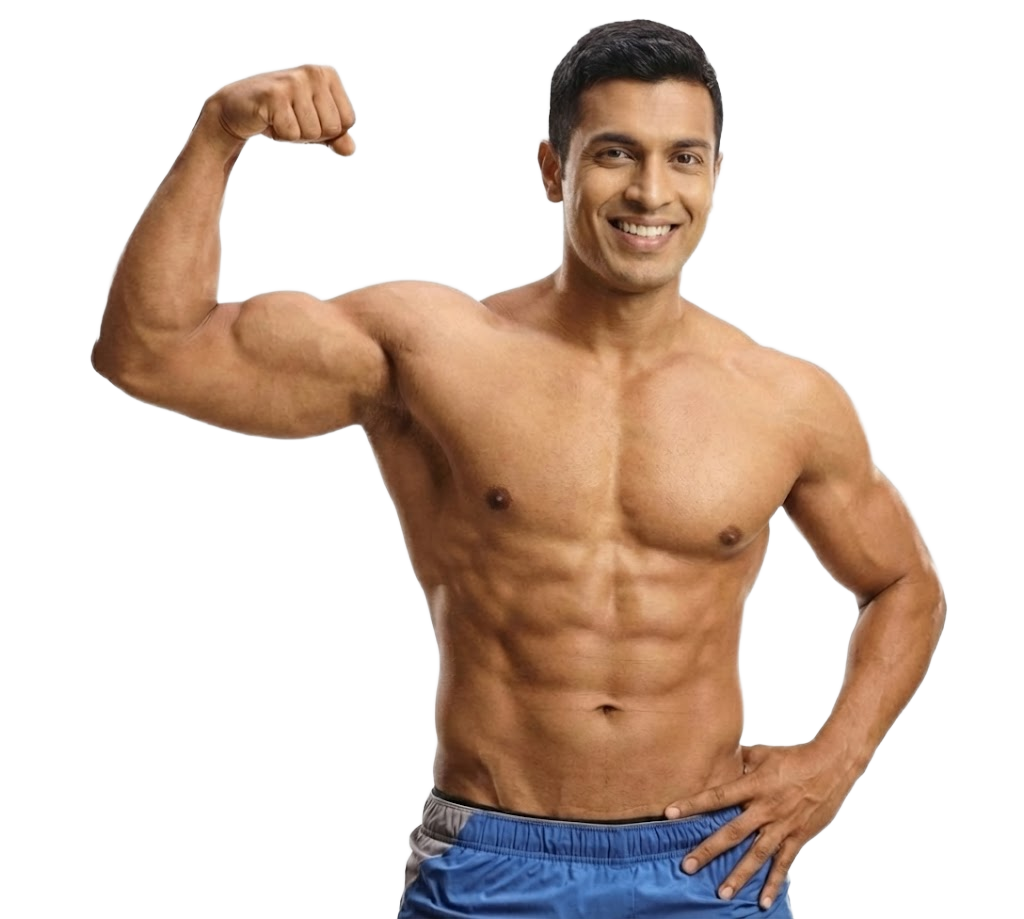
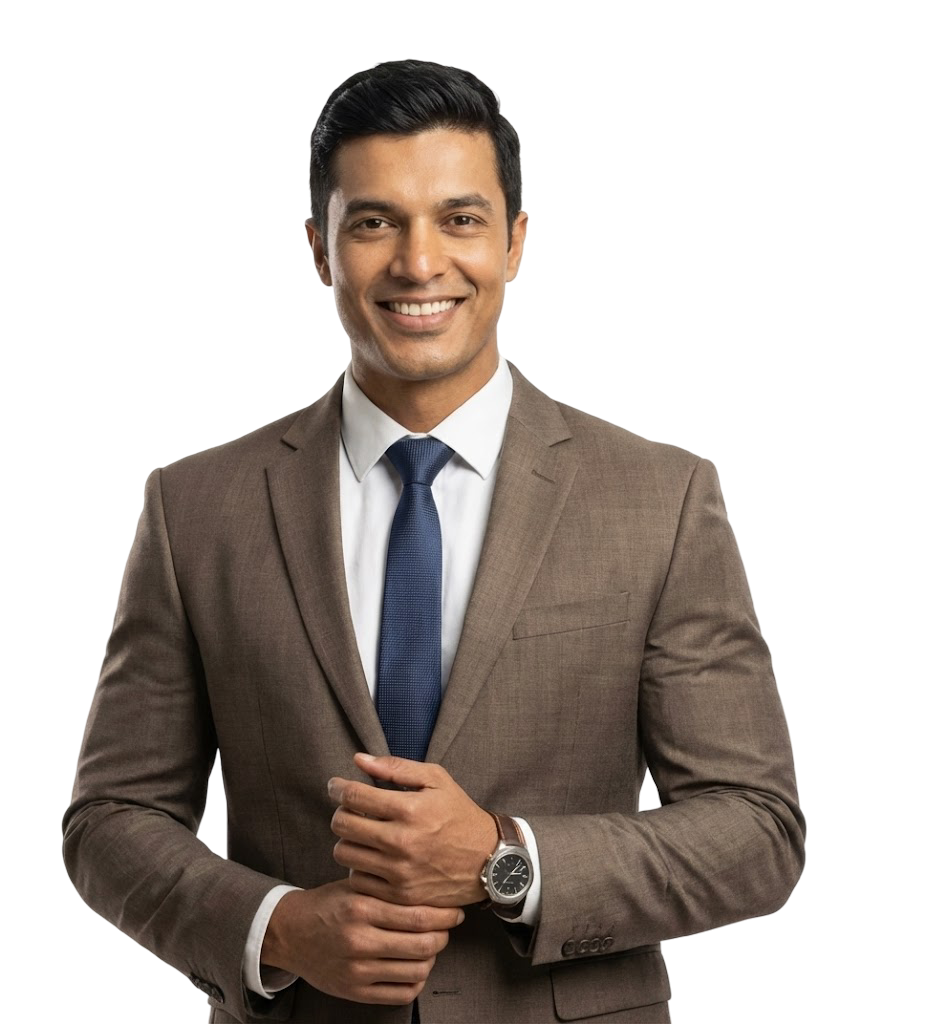
Update wellness website components and assets

diff --git a/frontend/src/components/FeaturedOn.jsx b/frontend/src/components/FeaturedOn.jsx
@@ -7,6 +7,16 @@ const FeaturedOn = () => {
 
   const mediaLogos = [
     {
+      name: 'Entrepreneur',
+      logo: mediaLogoPath('enterpenuer.jpg'),
+      alt: 'Entrepreneur Magazine'
+    },
+    {
+      name: 'United News of India',
+      logo: mediaLogoPath('uni1.jpg'),
+      alt: 'United News of India'
+    },
+    {
       name: 'Featured 1',
       logo: mediaLogoPath('test/p6nzkkfsqo-fhfvjhuhal-6929ca03b6f38.webp'),
       alt: 'Featured logo 1'
@@ -69,6 +79,24 @@ const FeaturedOn = () => {
   ];
 
   const mediaSpotlights = [
+    {
+      name: 'Entrepreneur',
+      headline: 'Health and Wellness Influencer of the Year',
+      description: 'Recognized for his transformative "Last Diet Method™" and empowering fitness coaches globally to build successful businesses.',
+      date: '2022',
+      url: 'https://www.entrepreneur.com/',
+      publisher: 'Entrepreneur',
+      image: mediaLogoPath('enterpenuer.jpg')
+    },
+    {
+      name: 'United News of India',
+      headline: 'Top 10 Entrepreneurs Set to Redefine Industries in 2026',
+      description: 'Featured as a reformist in the fitness industry, advocating for evidence-based health practices and a holistic approach to wellness.',
+      date: 'January 2026',
+      url: 'http://www.uniindia.com/',
+      publisher: 'United News of India',
+      image: mediaLogoPath('uni1.jpg')
+    },
     {
       name: 'Cosmopolitan',
       headline: 'Watch Out: These Food Triggers Can Make You Overeat',

diff --git a/frontend/src/components/CardsSection.jsx b/frontend/src/components/CardsSection.jsx
@@ -57,7 +57,7 @@ const CardsSection = () => {
                 <TrendingUp size={28} strokeWidth={2.5} />
               </div>
               <div className="badge-content">
-                <span className="badge-title">5,000+ Success Stories</span>
+                <span className="badge-title">1,287+ Success Stories</span>
                 <span className="badge-subtitle">Join thousands of transformed men</span>
               </div>
             </div>
@@ -66,7 +66,7 @@ const CardsSection = () => {
           {/* Yellow Card - Social Proof */}
           <div className="card card-yellow card-yellow-small">
             <div className="stat-header">
-              <h2 className="big-stat">5,000+</h2>
+              <h2 className="big-stat">1,287+</h2>
               <span className="stat-badge">And Growing</span>
             </div>
             <p className="stat-text">Men transformed their sexual health naturally</p>

diff --git a/frontend/src/components/TransformationCollage.css b/frontend/src/components/TransformationCollage.css
@@ -234,7 +234,7 @@
 
 /* 3. Bottom Left: Group (5000+ Stories) */
 .card-bottom-left {
-  bottom: 15%;
+  bottom: -5%;
   left: 20px;
   width: 180px;
   height: 180px;
@@ -247,7 +247,7 @@
 
 /* 4. Bottom Right: Counseling (100%) */
 .card-bottom-right {
-  bottom: 10%;
+  bottom: -12%;
   right: 40px;
   width: 180px;
   height: 180px;
@@ -308,14 +308,14 @@
     width: 140px; 
     height: 180px; 
     left: 0; 
-    bottom: 10%;
+    bottom: -10%;
     z-index: 5 !important; /* Send to background */
   }
   .card-bottom-right { 
     width: 140px; 
     height: 180px; 
     right: 0; 
-    bottom: 5%;
+    bottom: -18%;
     z-index: 5 !important; /* Send to background */
   }
   

diff --git a/frontend/src/components/HeroSection.css b/frontend/src/components/HeroSection.css
@@ -99,6 +99,16 @@
     margin-bottom: 0;
 }
 
+.hero-tagline {
+    font-size: clamp(18px, 2vw, 24px);
+    font-weight: 500;
+    color: #64748b;
+    /* Slate 500 */
+    opacity: 0.9;
+    margin-top: 12px;
+    /* Added space above as requested */
+}
+
 .highlight-blue {
     /* Semi-transparent blue glassmorphic effect */
     background: rgba(219, 234, 254, 0.5);
@@ -300,7 +310,7 @@
         /* Explicitly small */
         line-height: 1.4;
         display: block;
-        margin-top: 4px;
+        margin-top: 10px;
         font-weight: 600;
     }
 

diff --git a/frontend/src/components/FeaturedOn.css b/frontend/src/components/FeaturedOn.css
@@ -141,8 +141,20 @@
 .spotlight-image-wrapper {
   height: 180px;
   overflow: hidden;
-  background: linear-gradient(135deg, #667eea 0%, #764ba2 100%);
+  background: #f3f4f6; /* Changed from purple gradient to neutral gray */
   position: relative;
+}
+
+.spotlight-image {
+  width: 100%;
+  height: 100%;
+  object-fit: cover;
+  object-position: top; /* Ensure top of image (often logo/headline) is visible */
+  transition: transform 0.5s ease;
+}
+
+.spotlight-card:hover .spotlight-image {
+  transform: scale(1.05);
 }
 
 .spotlight-placeholder {

diff --git a/frontend/src/components/HeroSection.jsx b/frontend/src/components/HeroSection.jsx
@@ -15,10 +15,10 @@ const HeroSection = () => {
           </span>
           <span>
             <span className="highlight-blue">
-              Premature Ejaculation Reversal. <Sparkles className="sparkle-icon" size={28} />
+              Premature Ejaculation Reversal.
             </span>
           </span>
-          <span className="hero-tagline">Naturally and without pills.</span>
+          <span className="hero-tagline">(Naturally and without pills)</span>
         </h1>
 
         <h2 className="hero-subtitle">

diff --git a/frontend/src/components/ProgramSection.jsx b/frontend/src/components/ProgramSection.jsx
@@ -242,7 +242,7 @@ const ProgramSection = () => {
             <div className="video-wrapper">
               <div className="video-container">
                 <iframe
-                  src="https://www.youtube.com/embed/dQw4w9WgXcQ"
+                  src="https://www.youtube.com/embed/svnxm8-KRig"
                   title="Banana Health Program Overview"
                   frameBorder="0"
                   allow="accelerometer; autoplay; clipboard-write; encrypted-media; gyroscope; picture-in-picture"

diff --git a/frontend/src/components/MediaFeatures.jsx b/frontend/src/components/MediaFeatures.jsx
@@ -59,8 +59,8 @@ const MediaFeatures = () => {
           <div className="featured-video-main">
             <div className="video-wrapper primary-video">
               <LazyIframe
-                src="https://www.youtube.com/embed/CyYJGb0etjs?start=2"
-                title="TEDx Talk"
+                src="https://www.youtube.com/embed/svnxm8-KRig"
+                title="Featured Video"
                 className="video-iframe"
               />
             </div>
